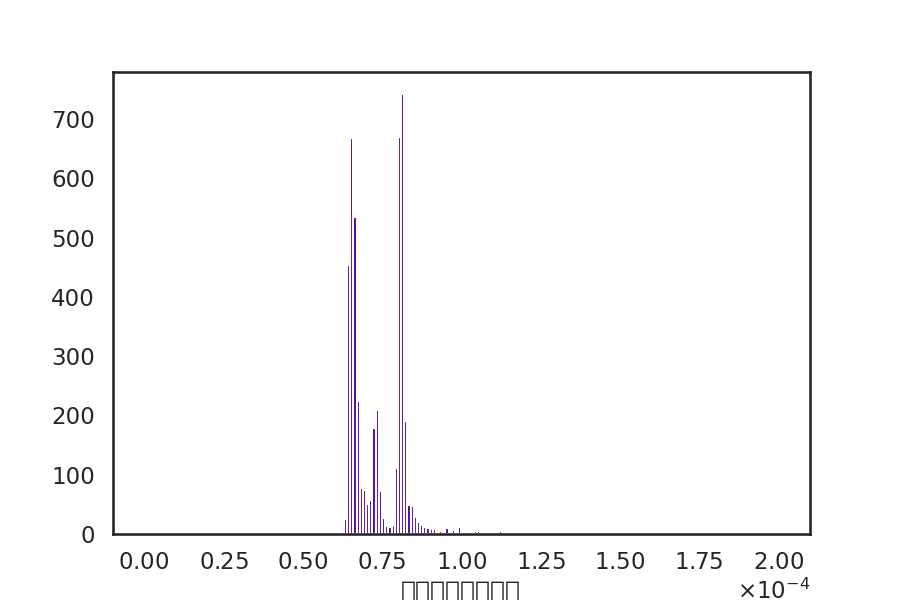
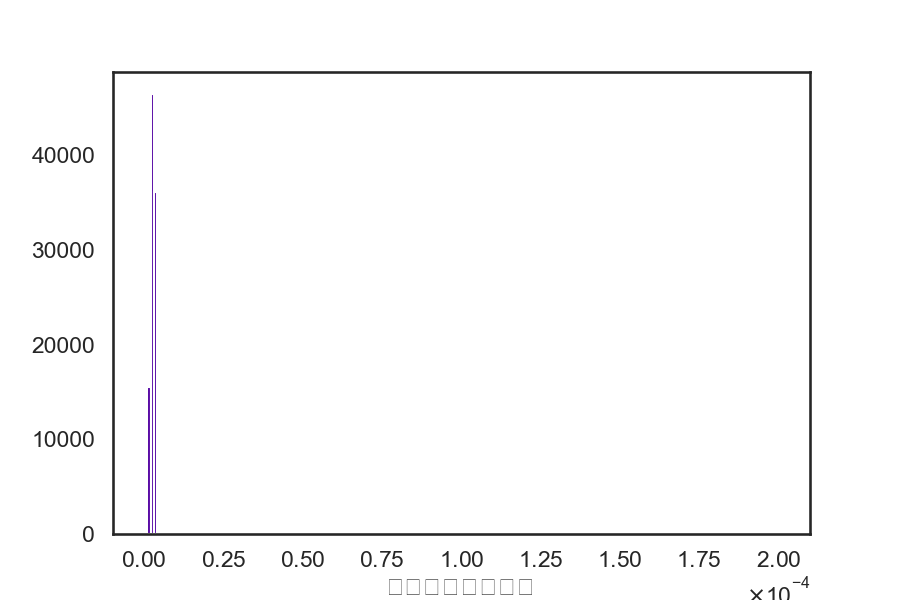
modified for use

diff --git a/avg_std_jitter.py b/avg_std_jitter.py
@@ -24,7 +24,6 @@ sns.set(
     #rc={'text.usetex': True}  # LaTeX書式を使えるように
 )
 
-delta_t = []
 jitter = []
 interval = 0.0005
 sample = 100000
@@ -32,28 +31,27 @@ sample = 100000
 #with open('/home/eguchi/ownCloud/Documents/raspberrypi/time_readadc_spidev',) as rf:
 #    t = rf.readlines()
 #t = np.loadtxt('/home/eguchi/ownCloud/Documents/raspberrypi/time_vs_bit/spidev_output_interval_'+str(interval)+'.txt')
-t = np.loadtxt('E:/owncloud/Documents/raspberrypi/adc_photor/spidev_output_interval='+str(interval)+'s_sample='+str(sample))
+t = np.loadtxt('E:/owncloud/Documents/raspberrypi/adc_photor/jitter_output_interval='+str(interval)+'s_sample='+str(sample))
 #with open('/home/eguchi/ownCloud/Documents/raspberrypi/time_vs_bit/spidev_output_interval_0.0005.txt', mode = 'w') as wf:
 #    print("avg",statistics.mean(t),file=wf)
 #    print("stdev",statistics.stdev(t),file=wf)
 #    print("var",math.sqrt(numpy.var(t,ddof=1)),file=wf)
 
 #print(np.shape(t)[0])
-
-for i in range(np.shape(t)[0]):
-    delta_t.append(t[i][0]-interval*(i+1))
 for i in range(np.shape(t)[0]):
     jitter.append(t[i][0]-t[i-1][0])
 
+jitter = jitter - interval
+
 #with open('/home/eguchi/ownCloud/Documents/raspberrypi/time_vs_bit/std_avg_spidev_output_interval_'+str(interval), mode = 'w') as wf:
-with open('E:/owncloud/Documents/raspberrypi/adc_photor/std_avg_spidev_output_interval_'+str(interval), mode = 'w') as wf:
+with open('E:/owncloud/Documents/raspberrypi/adc_photor/jitter_std_avg_interval_'+str(interval), mode = 'w') as wf:
     print("interval",'{:e}'.format(interval),file=wf)
-    print("jitter_avg",statistics.mean(delta_t),file=wf)
-    print("stdev_sample",statistics.stdev(delta_t),file=wf)
-    print("stdev_unbiased",math.sqrt(np.var(delta_t,ddof=1)),file=wf)
-    print("max of jitter", max(delta_t),file = wf)
-    print("min of jitter", min(delta_t),file = wf)
-    print("median of jitter",statistics.median(delta_t), file= wf )
+    print("jitter_avg",statistics.mean(jitter),file=wf)
+    print("stdev_sample",statistics.stdev(jitter),file=wf)
+    print("stdev_unbiased",math.sqrt(np.var(jitter,ddof=1)),file=wf)
+    print("max of jitter", max(jitter),file = wf)
+    print("min of jitter", min(jitter),file = wf)
+    print("median of jitter",statistics.median(jitter), file= wf )
 
 fig, ax = plt.subplots(figsize = (9,6)) #アスペクト比
 ax.xaxis.set_major_formatter(ScalarFormatter(useMathText=True))
@@ -66,19 +64,19 @@ ax.ticklabel_format(  # 指数表記
     scilimits=(0, 0),
     axis="x"
 )
-#ma = max(delta_t)
+#ma = max(jitter)
 #print(ma)
 
 ax.set_ylim(0,6000)
 
 ax = plt.hist(
-    delta_t,
+    jitter,
     bins=100,
     range=(0,0.00001),
     #range=(0,ma),
 )
 
 
-#plt.savefig('E:/owncloud/Documents/raspberrypi/adc_photor/hist_interval='+str(interval)+'s_sample='+str(sample)+'.png')
-plt.savefig('E:/owncloud/Documents/raspberrypi/adc_photor/hist_interval='+str(interval)+'s_sample='+str(sample)+'.png')
+#plt.savefig('E:/owncloud/Documents/raspberrypi/adc_photor/jitter_hist_interval='+str(interval)+'s_sample='+str(sample)+'.png')
+plt.savefig('E:/owncloud/Documents/raspberrypi/adc_photor/jitter_hist_interval='+str(interval)+'s_sample='+str(sample)+'.png')
 #plt.hist(sample_rate)
